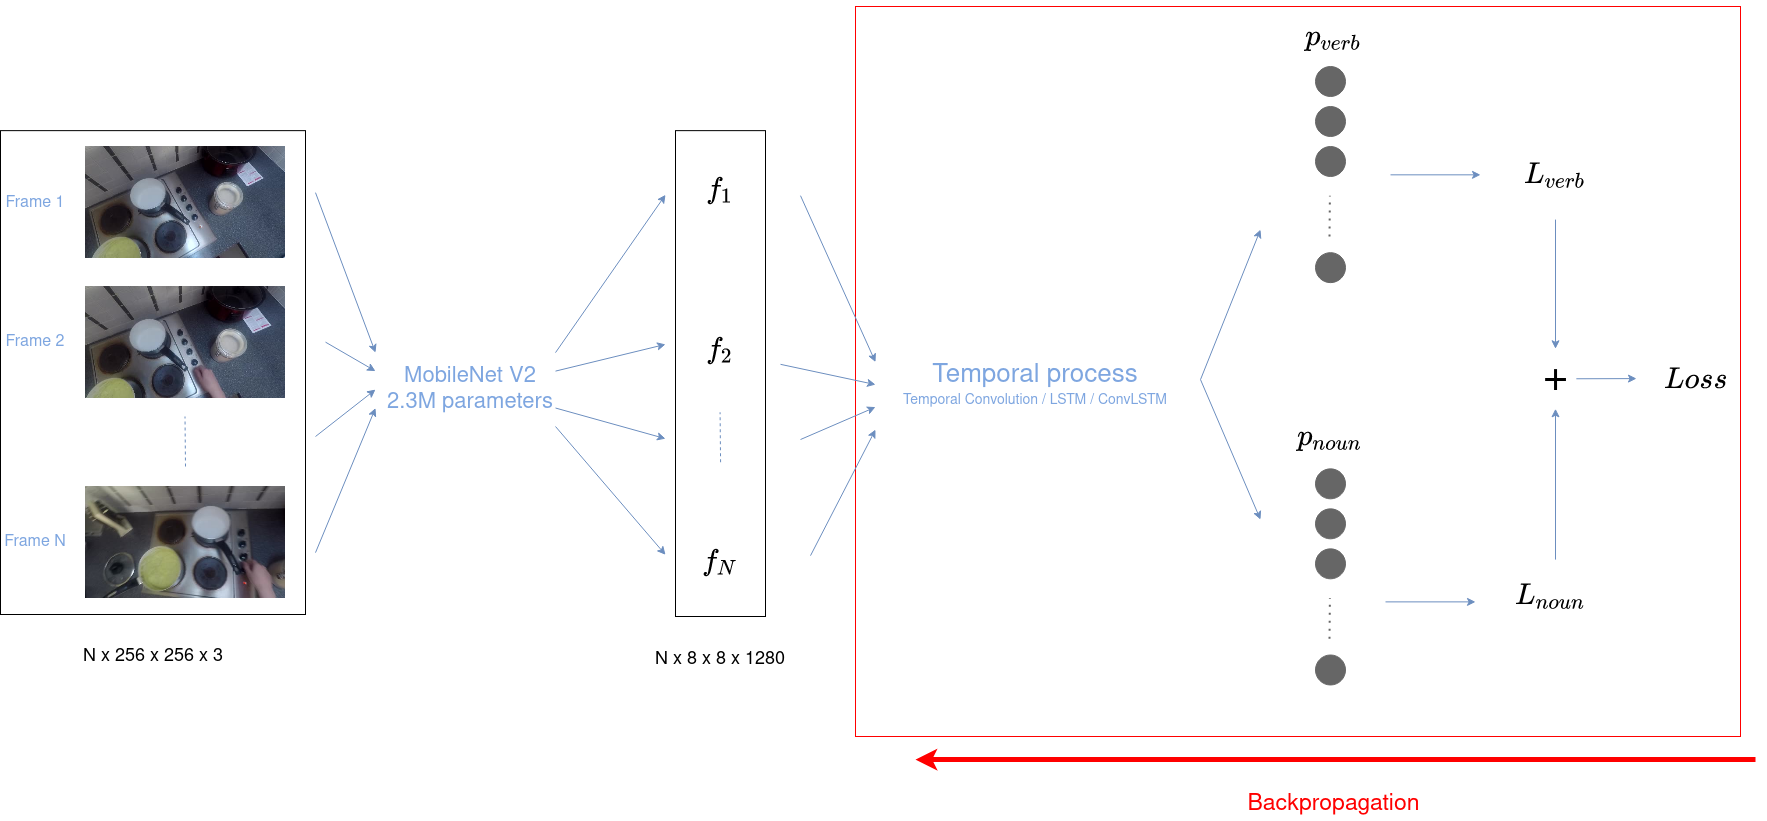
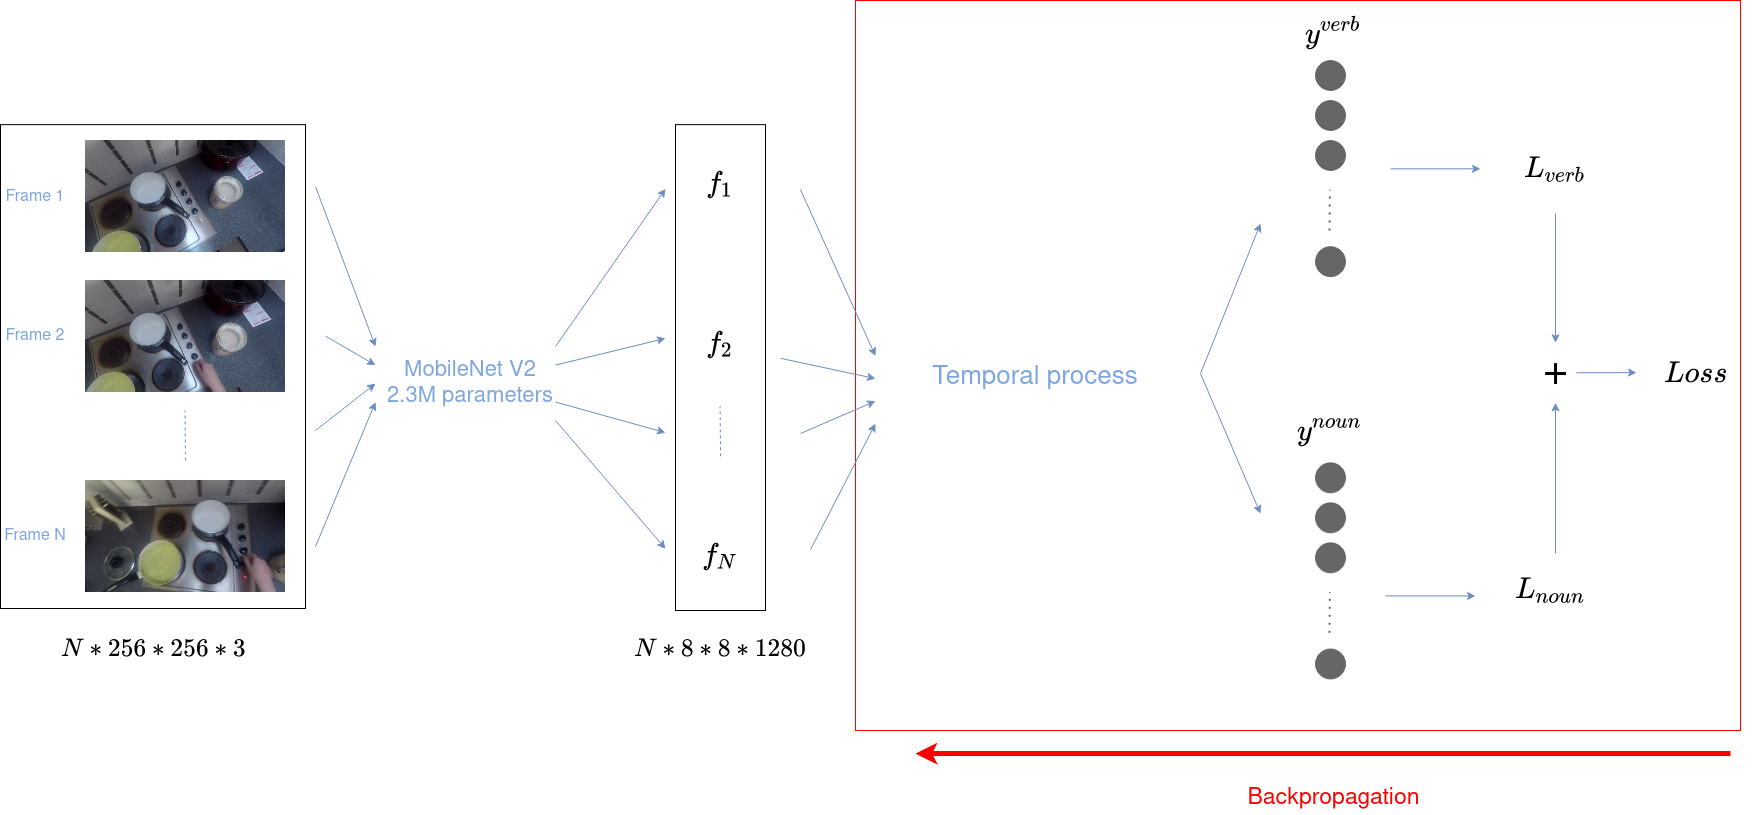
update

diff --git a/latex-version.tex b/latex-version.tex
@@ -174,10 +174,10 @@
 					\par
 					Yet, processing the images separately prevent the model to use the temporal correlation of the images.
 					Even if we use optical flows, they describe an infinitesimal motion compared to the whole action motion.
-					In \cite{ye2019two}, this idea of using the temporal correlation of the images makes use of Recurrent Neural Networks (RNN) through ConvLSTM \cite{shi2015convolutional}.
+					In \cite{ye2019two}, this idea of using the temporal correlation of the images makes use of Recurrent Neural Networks (RNN) through a ConvLSTM \cite{shi2015convolutional}.
 					As originally developed, the Long Short-Term Memory (LSTM), that is discussed in \ref{lstm}, takes as input a sequence of vector and output a single vector.
-					However, as we consider images it would be a waste to shrink the images into vectors for feeding them to a LSTM; it will result in a loss of information.
-					To overcome this, Shi et al. \cite{shi2015convolutional} developed the ConvLSTM cell, that allows to process images inside a LSTM.
+					However, as we consider images it would be a waste to shrink the images into vectors for feeding them to a LSTM; because it would result in a loss of information.
+					To overcome this lost of information when using LSTM, \cite{shi2015convolutional} developed the ConvLSTM cell, that allows to process images inside a LSTM.
 					For this end, they replace the matrix product by a convolution.
 					This simple yet effective trick create a sort of Convolutional Recurrent Neural Network.
 					\par
@@ -189,9 +189,9 @@
 					Last but not least, Sudhakaran et al. \cite{sudhakaran2019lsta} pointed a major difficulty to action recognition in egocentric vision that is the \say{huge variations present in the data caused by the highly articulated nature of the human body}.
 					Along with this difficulty, they make the following assumption (that surely makes sense): \say{the discriminative information is often confined locally in the video frame [...] thus, not all convolutional features are equally important for recognition}.
 					From these, they derive an architecture that uses a widely studied mechanism nowadays, attention.
-					They incorporate this mechanism inside a ConvLSTM and achieve the best results to this date.
 					Simply put, they add a learnable mapping to weight the input feature maps before feeding them to the cell.
 					Additionally, the output gate uses a weighted version of the cell state rather than the sequence element.
+					They incorporate this mechanism with a ConvLSTM and achieve the best results to this date.
 			\subsection{EPIC-KITCHENS}
 				What would be deep learning without data ?
 				\par
@@ -204,6 +204,7 @@
 				For egocentric action recognition, a team of researchers have published a large scaled dataset of kitchens actions in egocentric vision: \href{https://epic-kitchens.github.io/2021}{EPIC-KITCHENS}.
 				This dataset has been published in 2018, \cite{damen2018scaling}, with approximately 40K actions using more than 55 hours of recording (EPIC-KITCHENS 55).
 				Recently, a second version came out, \cite{damen2020rescaling}, with more than 90K action segments which have been extracted from 100 hours of recording (EPIC-KITCHENS 100).
+				Splitted into tran and test sets, they represent: 
 				Not only it contains action recognition labels, but also action detection, action anticipation and several others challenges.
 				To this date, it's the biggest open egocentric action recognition dataset available.
 				\par
@@ -247,12 +248,12 @@
 						\caption{MobileNetV2 kernels visualization.}
 						\label{feature_visualization}
 					\end{figure}
-					In order to provide insight of what a deep ConvNet has learned, Olah et al. \cite{olah2017feature} developed the feature visualization tool.
+					In order to provide insight of what a deep ConvNet has learned, \cite{olah2017feature} developed the feature visualization tool.
 					Based on gradient ascent, this technique produces an image that will maximize the activations of a specific neuron (i.e. output of a single layer kernel convolution).
 					We can do this because:  \say{neural networks are, generally speaking, differentiable with respect to their inputs. If we want to find out what kind of input would cause a certain behavior — whether that’s an internal neuron firing or the final output behavior — we can use derivatives to iteratively tweak the input towards that goal.}
 					It is useful to visualize which features a kernel, and more generally a layer, is looking for.
 					\par
-					Already before, Erhan et al. \cite{erhan2009visualizing} applied this principle of activation maximization on different architectures trained on MNIST.
+					Already before, \cite{erhan2009visualizing} applied this principle of activation maximization on different architectures trained on MNIST.
 					They found that some of the resulting images \say{look like pseudo-digits}.
 					When trained on natural images, the first layer filters of these architectures, are \say{Gabor-like features}.
 					Combined with other results, they suggest that \say{higher level units did indeed learn meaningful combinations of lower level features}.
@@ -305,26 +306,27 @@
 					\item Each image is fed to the pre-trained MobileNet V2.
 					\item The resulting feature maps are then either spacially averaged either directly sent to the temporal processing subsystem.
 					\item Finally, we use 2 fully-connected layers to compute the {\itshape verb} and {\itshape noun} probability distributions.
-					\item The error backpropagation is applied to the temporal processing subsystem only.
+					\item The error backpropagation is applied to the fully-connected layers and the temporal processing only (red box in Figure \ref{common_base}).
 				\end{enumerate}
 				\begin{figure}[h!]
 					\centering
-					\subfloat{\includegraphics[width=1.2\textwidth]{architecture_diagr_1.png}\label{common_base}}
+					\subfloat{\includegraphics[width=1.2\textwidth]{architecture_diagr.png}\label{common_base}}
 					\caption{Common base.}
 				\end{figure}
-				We use the categorical cross-entropy error between predicted and ground-truth labels.
+				We use the cross-entropy error between predicted and ground-truth labels.
 				\begin{align*}
-					L^{verb} = -\sum_{i} y^{verb}_{i}log(\hat{y}^{verb}_{i}) \\
-					L^{noun} = -\sum_{i} y^{noun}_{i}log(\hat{y}^{noun}_{i}) \\
-					Loss = L^{verb} + L^{noun} \\
+					L_{verb} = -\sum_{i} y^{verb}_{i}log(\hat{y}^{verb}_{i}) \\
+					L_{noun} = -\sum_{i} y^{noun}_{i}log(\hat{y}^{noun}_{i}) \\
+					Loss = L_{verb} + L_{noun} \\
 				\end{align*}
-				where $y$ and $\hat{y}$ are the ground-truth and prediction respectively.
+				where $y$ and $\hat{y}$ are the ground-truth and model prediction respectively.
 			\subsection{Temporal process subsystem}\label{lstm}
 				\subsubsection{LSTM}\label{lstm}
 					Recurrent neural networks have been largely successfully applied to sequence-to-sequence prediction problems, especially in \gls{nlp} \cite{wu2016google,shen2018natural,miao2020application}.
 					Their ability to propagate information during the inference is particularly appreciated.
 					They also attracted a lot of attention due to their ability to counter \gls{vanish}, especially LSTM \cite{Hochreiter1997lstm}, made possible with their hidden states shortcuts.
 					A brief recall of how RNN and LSTM work is described in appendix \ref{appendix_b}.
+					Despite their success, LSTM are also known to expose chaotic behaviour sometimes \cite{bertschinger2004,laurent2016recurrent} which made them difficult to train, especially with little data.
 				\subsubsection{ConvLSTM}
 					Lorem ipsum.
 				\subsubsection{ConvNet1D}
@@ -346,7 +348,7 @@
 			Lorem ipsum.
 		\section{Acquired knowledge and skills}
 			Lorem ipsum.
-	\bibliographystyle{unsrt}
+	\bibliographystyle{apalike}
 	\bibliography{bibliography}
 	\appendix
 	\chapter{ImageNet and EPIC-KITCHENS comparisons}\label{appendix_a}
